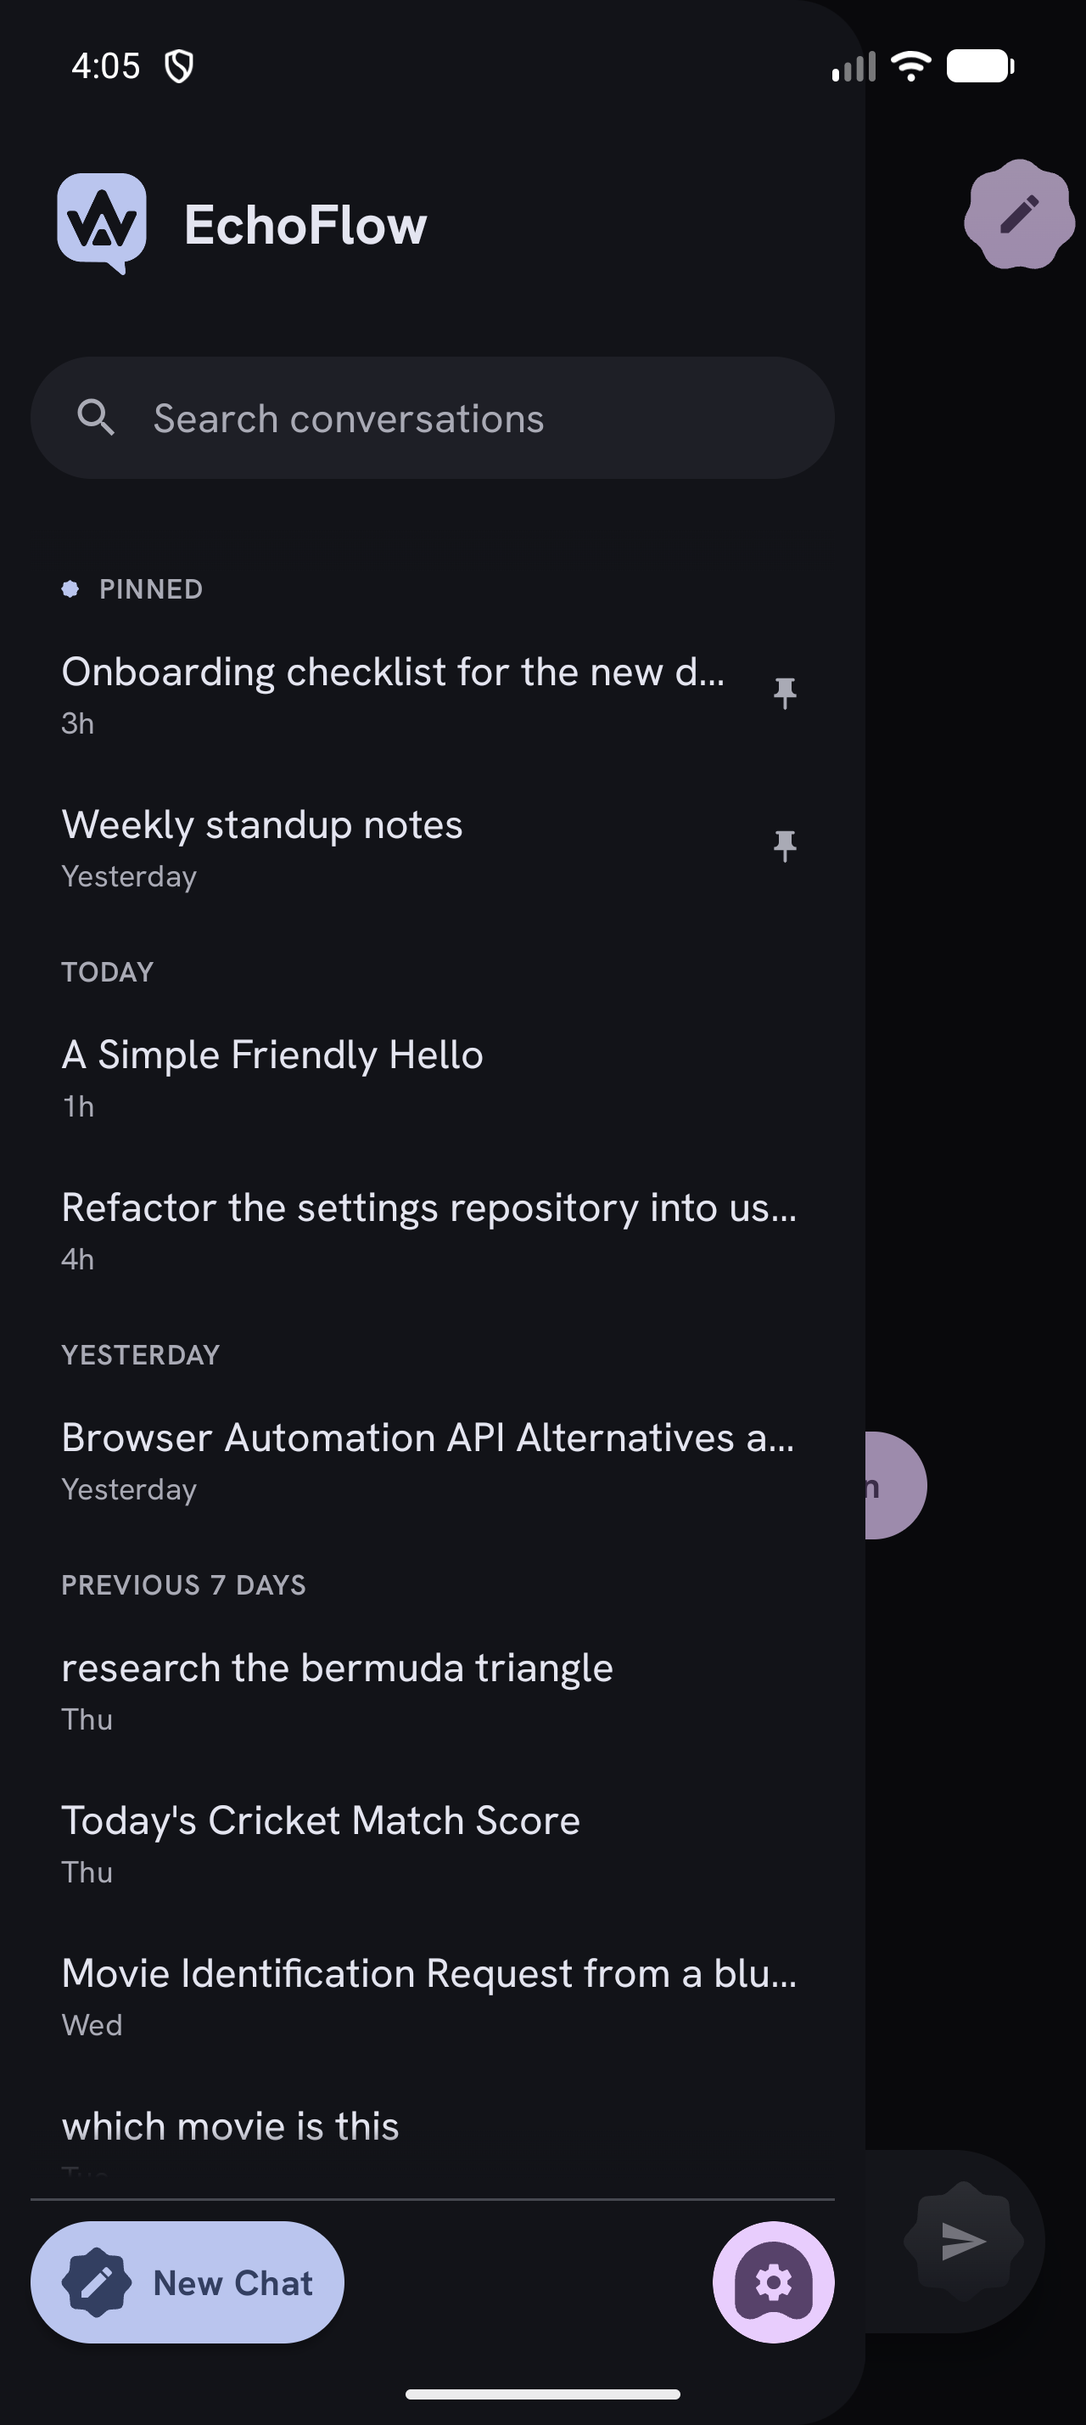
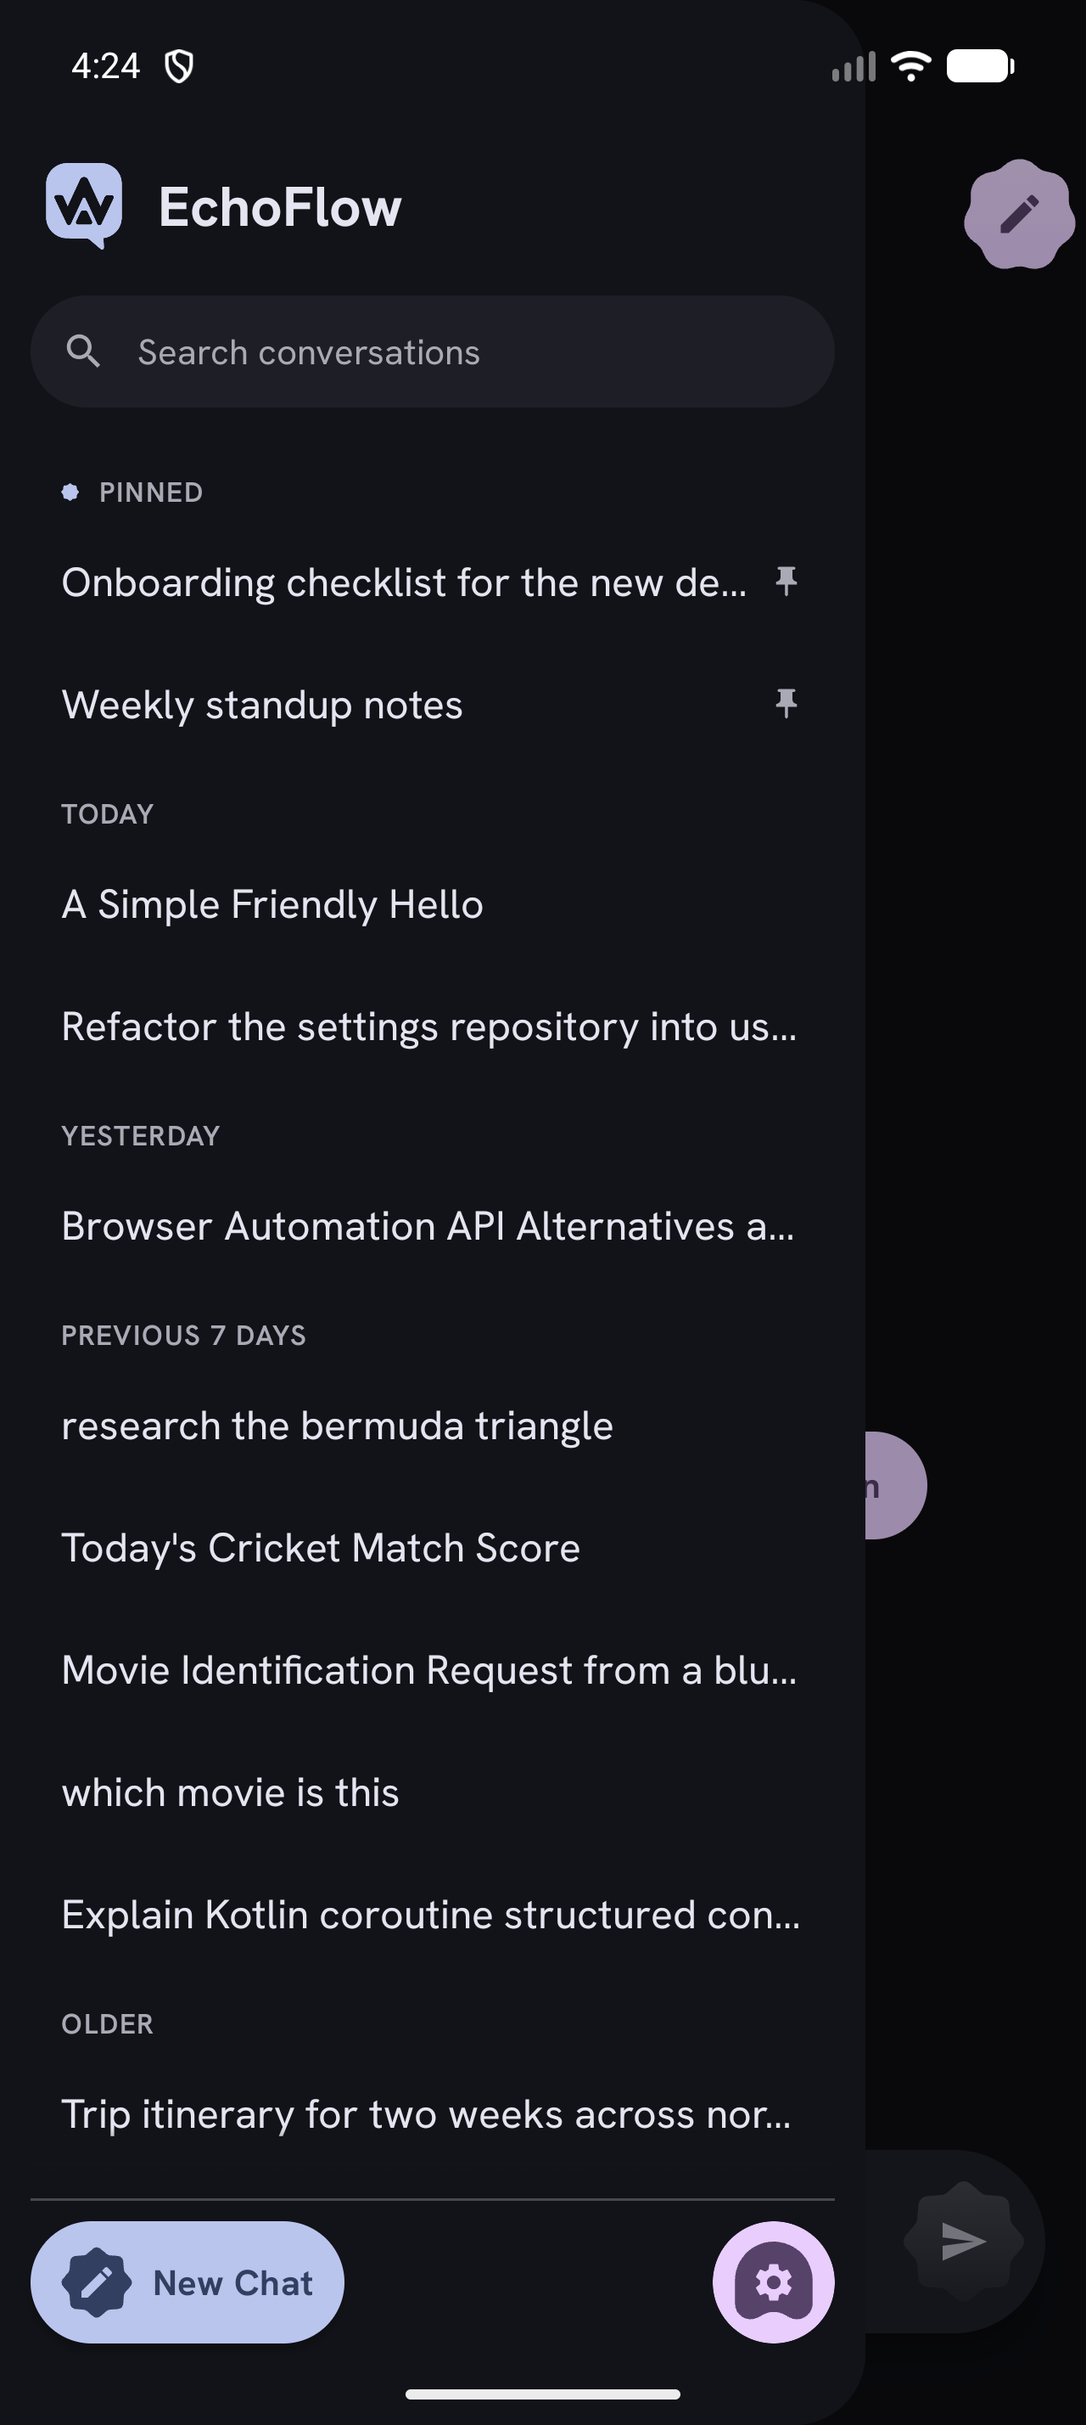
Rework sidebar to a dense, quiet list: single-line rows, neutral selection, tighter chrome
Second pass over the drawer after review: the two-line rows spent their height
on timestamps nobody needed, and the tinted selection (accent bar + secondary
container) read as busy. The v2 language is density and quiet:

- Rows are single-line again at 48dp — title only, no metadata. The recency
  group headers already say "when"; the rows don't repeat it.
- Selection is elevation, not paint: the active row lifts on a neutral
  surfaceContainerHigh pill, the title firms to Medium, and one small Sunny
  brand dot sits at the trailing edge. Nothing is inserted before the text, so
  every title hangs off the same left rail, selected or not.
- Header is a compact lockup (34dp mark, tighter padding) — the drawer's job
  is the list, not the logo.
- Search slims to a 44dp pill with bodyMedium text and an 18dp icon, aligned
  to the same gutter as the row titles and section headers.
- relativeLabel() and its tests are removed with the second line.

Baselines re-recorded for the affected drawer screens.

diff --git a/app/src/main/java/com/echoflow/ui/components/DrawerThreadList.kt b/app/src/main/java/com/echoflow/ui/components/DrawerThreadList.kt
@@ -80,26 +80,22 @@ import com.echoflow.data.ChatThread
 import com.echoflow.ui.theme.RoundedPolygonShape
 import com.echoflow.ui.theme.Spacing
 import com.echoflow.ui.theme.rememberReducedMotion
-import java.text.SimpleDateFormat
 import java.util.Calendar
-import java.util.Date
 import java.util.Locale
 
 private const val PINNED_SECTION = "Pinned"
-private val RowShape = RoundedCornerShape(18.dp)
-private val RowHeight = 60.dp
-private val AccentBarWidth = 3.dp
-private val AccentBarHeight = 26.dp
+private val RowShape = RoundedCornerShape(14.dp)
+private val RowHeight = 48.dp
 
 /**
  * One mode's conversations, grouped by when they were last touched.
  *
- * Each row carries two lines — the title and a quiet relative time — so the run of conversations
- * reads as navigable history rather than a stack of bare strings, and every row earns its height.
- * Colour only ever means "this is the conversation you're in": the active row fills with a soft
- * container and grows a left accent bar, and crucially the title's left edge never moves between
- * selected and not, so the column of titles stays a straight rail. Soft top and bottom fades let
- * the list dissolve into the drawer instead of hard-cutting at the edges.
+ * The list is a dense, quiet run of single-line titles — no metadata, no chrome per row; the
+ * grouping headers already say "when" so the rows don't have to. Selection is deliberately calm:
+ * the active row lifts on a neutral pill (elevation, not paint), its title firms up half a weight,
+ * and a small brand dot sits at the trailing edge. Nothing is inserted before the text, so the
+ * column of titles holds one straight rail whether a row is selected or not. Soft top and bottom
+ * fades let the list dissolve into the drawer instead of hard-cutting at the edges.
  */
 @Composable
 fun DrawerThreadList(
@@ -207,30 +203,20 @@ private fun ThreadRow(
     val interactionSource = remember { MutableInteractionSource() }
     val pressed by interactionSource.collectIsPressedAsState()
 
-    // The active pill fills in with a soft spring; content colour crossfades so a title never
-    // "flickers" between roles as the selection lands. The container is the quieter secondary role,
-    // not the loud primary slab, so an airy list keeps its calm. Under reduced motion colours snap.
+    // Selection is elevation, not paint: the active row lifts on a neutral container pill and its
+    // title firms to Medium. Colour stays out of the row except one small trailing brand dot —
+    // enough to say "you are here" without shouting over the run of titles. Nothing is ever
+    // inserted before the text, so every title hangs off the same left rail. Under reduced motion
+    // the colours snap.
     val container by animateColorAsState(
-        targetValue = if (selected) MaterialTheme.colorScheme.secondaryContainer else Color.Transparent,
+        targetValue = if (selected) MaterialTheme.colorScheme.surfaceContainerHigh else Color.Transparent,
         animationSpec = if (reducedMotion) snap() else spring(stiffness = Spring.StiffnessMediumLow),
         label = "row-container",
     )
-    val contentColor by animateColorAsState(
-        targetValue = if (selected) MaterialTheme.colorScheme.onSecondaryContainer else MaterialTheme.colorScheme.onSurface,
-        animationSpec = if (reducedMotion) snap() else tween(durationMillis = 240),
-        label = "row-content",
-    )
-    val mutedColor = if (selected) {
-        MaterialTheme.colorScheme.onSecondaryContainer.copy(alpha = 0.72f)
-    } else {
-        MaterialTheme.colorScheme.onSurfaceVariant
-    }
-    // The active accent bar grows in — vertical scale + fade, so it feels planted, not stamped. It
-    // lives in an overlay so it never reflows the title: the text rail stays dead straight.
-    val accent by animateFloatAsState(
+    val dot by animateFloatAsState(
         targetValue = if (selected) 1f else 0f,
-        animationSpec = if (reducedMotion) snap() else spring(dampingRatio = 0.6f, stiffness = Spring.StiffnessMediumLow),
-        label = "row-accent",
+        animationSpec = if (reducedMotion) snap() else spring(dampingRatio = 0.5f, stiffness = Spring.StiffnessMediumLow),
+        label = "row-dot",
     )
     // Press gives: the whole row dips and springs back under the finger — unless motion is reduced.
     val pressScale by animateFloatAsState(
@@ -239,7 +225,6 @@ private fun ThreadRow(
         label = "row-press",
     )
 
-    val timeLabel = remember(thread.updatedAt) { ThreadRecency.relativeLabel(thread.updatedAt) }
     val description = buildString {
         append(thread.title)
         if (thread.isPinned) append(", pinned")
@@ -247,7 +232,7 @@ private fun ThreadRow(
     }
 
     Box {
-        Box(
+        Row(
             Modifier
                 .fillMaxWidth()
                 .graphicsLayer { scaleX = pressScale; scaleY = pressScale }
@@ -260,6 +245,7 @@ private fun ThreadRow(
                     onLongClick = { menuOpen = true },
                 )
                 .heightIn(min = RowHeight)
+                .padding(horizontal = Spacing.m)
                 .semantics {
                     contentDescription = description
                     customActions = buildList {
@@ -272,60 +258,42 @@ private fun ThreadRow(
                         add(CustomAccessibilityAction("Delete") { onDelete(); true })
                     }
                 },
+            verticalAlignment = Alignment.CenterVertically,
         ) {
-            // Overlay accent bar — drawn on top of the row, outside the content flow, so the title
-            // never shifts. Invisible (scaled/faded to zero) on unselected rows.
-            Box(
-                Modifier
-                    .align(Alignment.CenterStart)
-                    .padding(start = Spacing.xs + 1.dp)
-                    .width(AccentBarWidth)
-                    .height(AccentBarHeight)
-                    .graphicsLayer { scaleY = accent; alpha = accent }
-                    .clip(RoundedCornerShape(50))
-                    .background(MaterialTheme.colorScheme.primary),
+            Text(
+                thread.title,
+                maxLines = 1,
+                overflow = TextOverflow.Ellipsis,
+                style = MaterialTheme.typography.bodyLarge,
+                fontWeight = if (selected) FontWeight.Medium else FontWeight.Normal,
+                color = MaterialTheme.colorScheme.onSurface,
+                modifier = Modifier.weight(1f),
             )
-            Row(
-                Modifier
-                    .fillMaxWidth()
-                    .heightIn(min = RowHeight)
-                    .padding(horizontal = Spacing.m, vertical = Spacing.s),
-                verticalAlignment = Alignment.CenterVertically,
-            ) {
-                Column(Modifier.weight(1f)) {
-                    Text(
-                        thread.title,
-                        maxLines = 1,
-                        overflow = TextOverflow.Ellipsis,
-                        style = MaterialTheme.typography.bodyLarge,
-                        fontWeight = if (selected) FontWeight.Medium else FontWeight.Normal,
-                        color = contentColor,
-                    )
-                    Spacer(Modifier.height(2.dp))
-                    Text(
-                        timeLabel,
-                        maxLines = 1,
-                        overflow = TextOverflow.Ellipsis,
-                        style = MaterialTheme.typography.bodySmall,
-                        color = mutedColor,
-                    )
-                }
-                if (thread.isPinned) {
-                    Spacer(Modifier.width(Spacing.s))
-                    Icon(
-                        Icons.Filled.PushPin,
-                        contentDescription = "Pinned",
-                        modifier = Modifier.size(15.dp),
-                        tint = mutedColor,
-                    )
-                }
-                if (rendering) {
-                    Spacer(Modifier.width(Spacing.s))
-                    RenderingPulse(
-                        color = if (selected) MaterialTheme.colorScheme.onSecondaryContainer else MaterialTheme.colorScheme.primary,
-                        reducedMotion = reducedMotion,
-                    )
-                }
+            if (thread.isPinned) {
+                Spacer(Modifier.width(Spacing.s))
+                Icon(
+                    Icons.Filled.PushPin,
+                    contentDescription = "Pinned",
+                    modifier = Modifier.size(14.dp),
+                    tint = MaterialTheme.colorScheme.onSurfaceVariant,
+                )
+            }
+            if (rendering) {
+                Spacer(Modifier.width(Spacing.s))
+                RenderingPulse(
+                    color = MaterialTheme.colorScheme.primary,
+                    reducedMotion = reducedMotion,
+                )
+            }
+            if (dot > 0f) {
+                Spacer(Modifier.width(Spacing.s))
+                Box(
+                    Modifier
+                        .size(7.dp)
+                        .graphicsLayer { scaleX = dot; scaleY = dot; alpha = dot }
+                        .clip(RoundedPolygonShape(MaterialShapes.Sunny))
+                        .background(MaterialTheme.colorScheme.primary),
+                )
             }
         }
 
@@ -590,34 +558,6 @@ internal object ThreadRecency {
             else -> EARLIER
         }
     }
-
-    /**
-     * A short, glanceable "when" for a row's second line: "Just now", "12m", "5h", "Yesterday",
-     * a weekday within the last week, then a calendar date (with the year only once it differs).
-     * Calendar-based like [bucketOf], so day boundaries fall on midnight rather than 24h spans.
-     */
-    fun relativeLabel(timestamp: Long, now: Long = System.currentTimeMillis()): String {
-        val diff = now - timestamp
-        if (diff < 0) return "Just now"
-        val dayGap = ((startOfDay(now) - startOfDay(timestamp)) / DAY_MS).toInt()
-        val minutes = diff / 60_000L
-        val hours = diff / 3_600_000L
-        return when {
-            minutes < 1 -> "Just now"
-            dayGap == 0 && minutes < 60 -> "${minutes}m"
-            dayGap == 0 -> "${hours}h"
-            dayGap == 1 -> "Yesterday"
-            dayGap in 2..6 -> SimpleDateFormat("EEE", Locale.getDefault()).format(Date(timestamp))
-            else -> {
-                val sameYear = yearOf(timestamp) == yearOf(now)
-                val pattern = if (sameYear) "d MMM" else "d MMM yyyy"
-                SimpleDateFormat(pattern, Locale.getDefault()).format(Date(timestamp))
-            }
-        }
-    }
-
-    private fun yearOf(ts: Long): Int =
-        Calendar.getInstance().apply { timeInMillis = ts }.get(Calendar.YEAR)
 
     private fun startOfDay(now: Long): Long = Calendar.getInstance().apply {
         timeInMillis = now

diff --git a/app/src/main/java/com/echoflow/ui/components/ChatDrawer.kt b/app/src/main/java/com/echoflow/ui/components/ChatDrawer.kt
@@ -118,12 +118,12 @@ fun ChatDrawerContent(
             .windowInsetsPadding(WindowInsets.safeDrawing)
             .padding(horizontal = Spacing.m),
     ) {
-        // Brand header — same mark as the rest of the app for cohesion.
+        // Brand header — a compact lockup; the drawer's job is the list, not the logo.
         Row(
-            Modifier.fillMaxWidth().padding(start = Spacing.s, top = Spacing.base, bottom = Spacing.l),
+            Modifier.fillMaxWidth().padding(start = Spacing.xs, top = Spacing.m, bottom = Spacing.base),
             verticalAlignment = Alignment.CenterVertically,
         ) {
-            BrandMark(size = 40.dp)
+            BrandMark(size = 34.dp)
             Spacer(Modifier.width(Spacing.m))
             Text("EchoFlow", style = MaterialTheme.typography.titleLarge, color = MaterialTheme.colorScheme.onSurface)
         }
@@ -132,7 +132,6 @@ fun ChatDrawerContent(
 
         // Search across every conversation — titles and message text.
         if (onSearchQueryChange != null) {
-            Spacer(Modifier.height(Spacing.m))
             DrawerSearchField(
                 query = searchQuery,
                 onQueryChange = onSearchQueryChange,
@@ -140,7 +139,7 @@ fun ChatDrawerContent(
             )
         }
 
-        Spacer(Modifier.height(Spacing.l))
+        Spacer(Modifier.height(Spacing.s))
         if (searchQuery.isNotBlank()) SectionLabel("Results")
 
         when {
@@ -318,11 +317,11 @@ private fun DrawerSearchField(query: String, onQueryChange: (String) -> Unit, pl
         modifier = Modifier.fillMaxWidth(),
     ) {
         Row(
-            Modifier.heightIn(min = 48.dp).padding(horizontal = Spacing.base),
+            Modifier.heightIn(min = 44.dp).padding(horizontal = Spacing.m),
             verticalAlignment = Alignment.CenterVertically,
         ) {
             Icon(
-                Icons.Default.Search, null, Modifier.size(20.dp),
+                Icons.Default.Search, null, Modifier.size(18.dp),
                 tint = MaterialTheme.colorScheme.onSurfaceVariant,
             )
             Spacer(Modifier.width(Spacing.m))
@@ -331,14 +330,14 @@ private fun DrawerSearchField(query: String, onQueryChange: (String) -> Unit, pl
                     value = query,
                     onValueChange = onQueryChange,
                     singleLine = true,
-                    textStyle = MaterialTheme.typography.bodyLarge.copy(color = MaterialTheme.colorScheme.onSurface),
+                    textStyle = MaterialTheme.typography.bodyMedium.copy(color = MaterialTheme.colorScheme.onSurface),
                     cursorBrush = SolidColor(MaterialTheme.colorScheme.primary),
                     decorationBox = { innerTextField ->
                         Box(contentAlignment = Alignment.CenterStart) {
                             if (query.isEmpty()) {
                                 Text(
                                     placeholder,
-                                    style = MaterialTheme.typography.bodyLarge,
+                                    style = MaterialTheme.typography.bodyMedium,
                                     color = MaterialTheme.colorScheme.onSurfaceVariant,
                                 )
                             }
@@ -363,7 +362,7 @@ private fun DrawerSearchField(query: String, onQueryChange: (String) -> Unit, pl
             } else {
                 Text(
                     query.ifEmpty { placeholder },
-                    style = MaterialTheme.typography.bodyLarge,
+                    style = MaterialTheme.typography.bodyMedium,
                     color = if (query.isEmpty()) MaterialTheme.colorScheme.onSurfaceVariant
                     else MaterialTheme.colorScheme.onSurface,
                     maxLines = 1,

diff --git a/app/src/test/java/com/echoflow/ui/components/ThreadRecencyTest.kt b/app/src/test/java/com/echoflow/ui/components/ThreadRecencyTest.kt
@@ -2,10 +2,8 @@ package com.echoflow.ui.components
 
 import com.echoflow.data.ChatThread
 import org.junit.Assert.assertEquals
-import org.junit.Before
 import org.junit.Test
 import java.util.Calendar
-import java.util.Locale
 
 /**
  * Recency buckets are calendar-based, not span-based. "Yesterday" has to mean the previous
@@ -21,9 +19,6 @@ class ThreadRecencyTest {
         }.timeInMillis
 
     private val now = at(2026, Calendar.JULY, 27, hour = 10)
-
-    // The relative-label assertions below spell out English weekday/month names, so pin the locale.
-    @Before fun pinLocale() = Locale.setDefault(Locale.US)
 
     @Test fun `earlier the same day is today, however early`() {
         assertEquals(ThreadRecency.TODAY, ThreadRecency.bucketOf(at(2026, Calendar.JULY, 27, 0, 5), now))
@@ -57,20 +52,6 @@ class ThreadRecencyTest {
 
     @Test fun `an empty list produces no sections rather than four empty ones`() {
         assertEquals(emptyList<Pair<String, List<ChatThread>>>(), ThreadRecency.group(emptyList(), now))
-    }
-
-    @Test fun `relative label reads minutes and hours within today, then calendar words`() {
-        assertEquals("Just now", ThreadRecency.relativeLabel(now, now))
-        assertEquals("5m", ThreadRecency.relativeLabel(now - 5 * 60_000L, now))
-        assertEquals("3h", ThreadRecency.relativeLabel(at(2026, Calendar.JULY, 27, hour = 7), now))
-        // Late last night is "Yesterday", not "10h", because the calendar day rolled over.
-        assertEquals("Yesterday", ThreadRecency.relativeLabel(at(2026, Calendar.JULY, 26, hour = 23), now))
-    }
-
-    @Test fun `relative label uses weekday within the week and a date beyond it`() {
-        assertEquals("Fri", ThreadRecency.relativeLabel(at(2026, Calendar.JULY, 24), now))
-        assertEquals("1 Jul", ThreadRecency.relativeLabel(at(2026, Calendar.JULY, 1), now))
-        assertEquals("25 Dec 2025", ThreadRecency.relativeLabel(at(2025, Calendar.DECEMBER, 25), now))
     }
 
     private fun thread(id: String, updatedAt: Long) =
